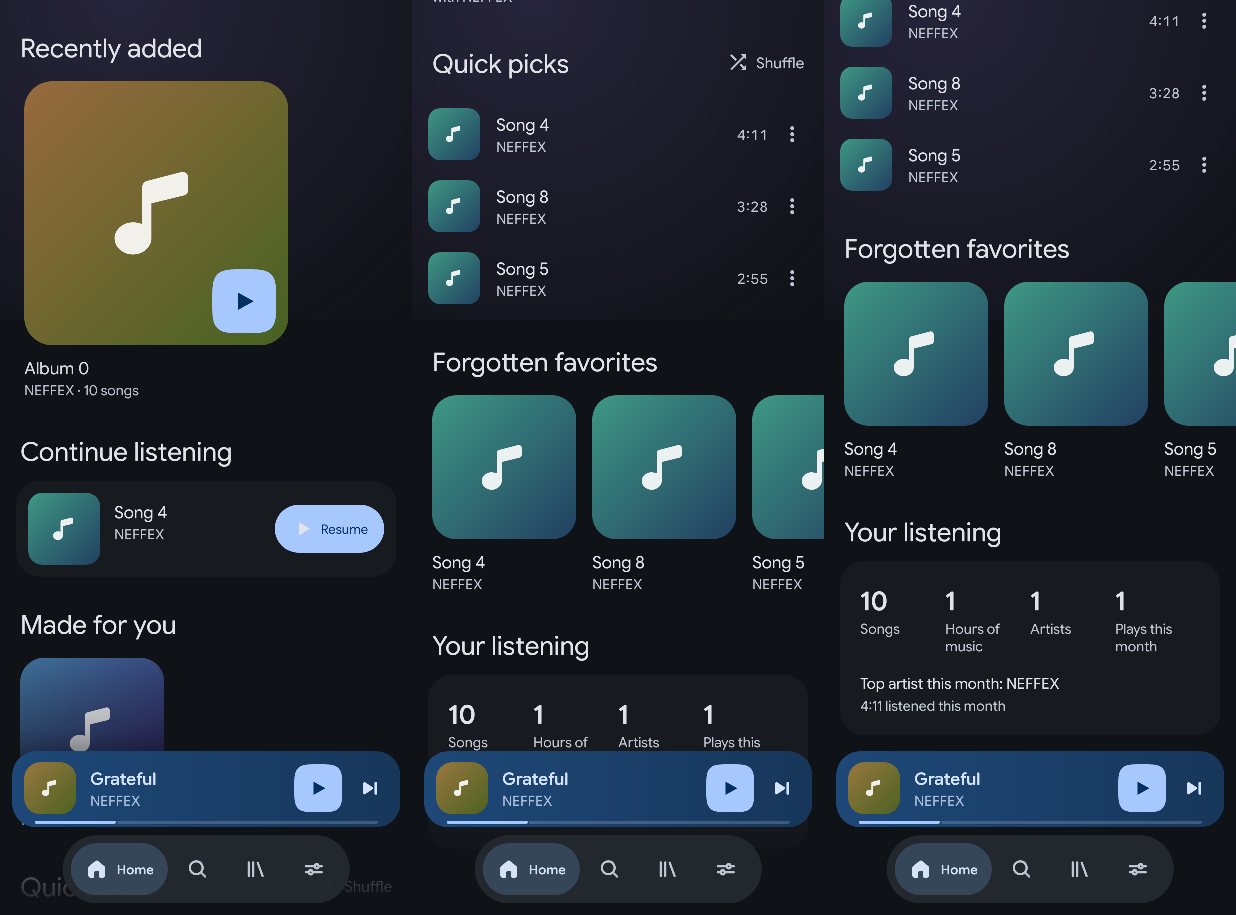
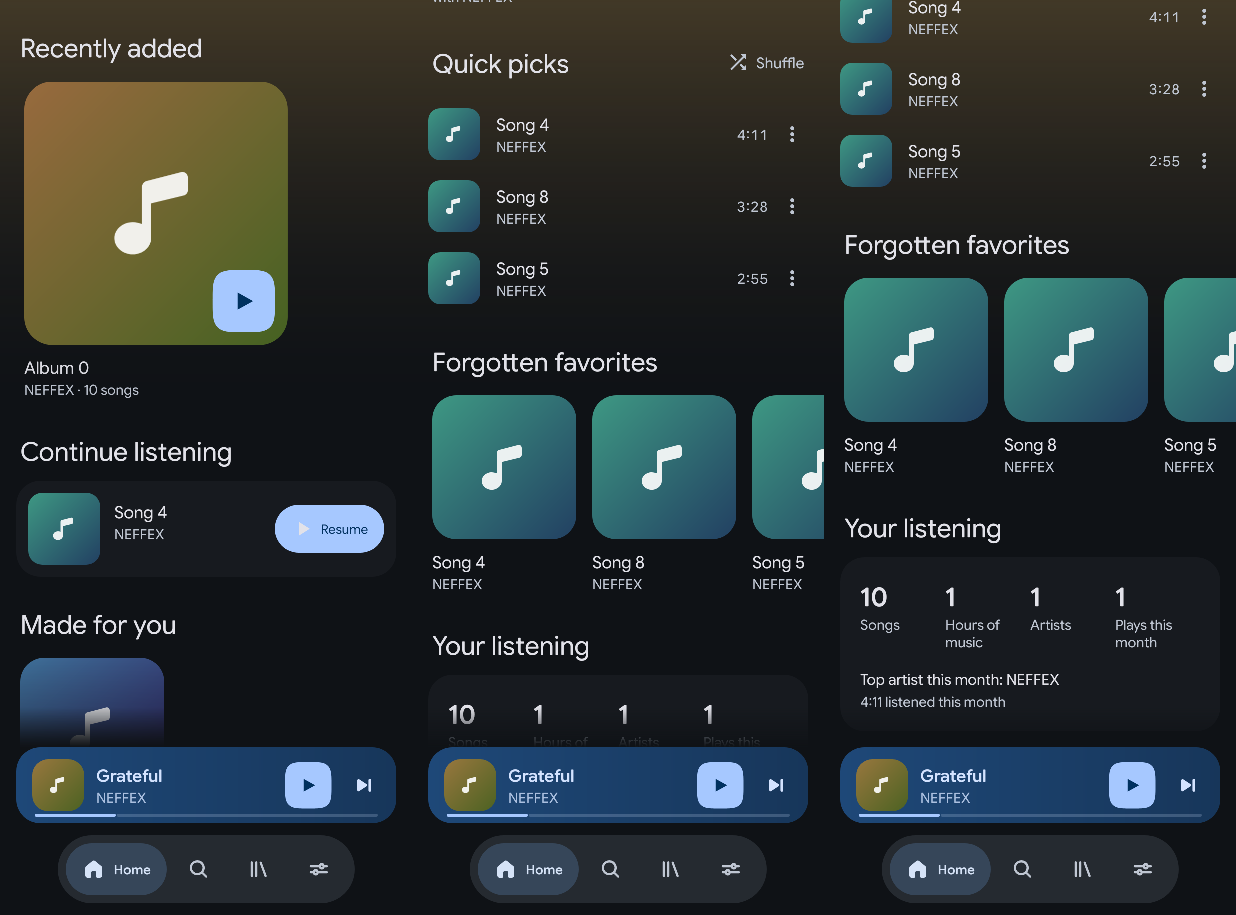
H1: Home glow follows the focused hero cover / playing track (HomeGlow.setTint: one cross-fade, instant under reduce-motion/saver, neutral when Colors from artwork is off; colours extracted on io + cached)
Claude-Session: https://claude.ai/code/session_01Vs9o5GYUVh6nkyc9RDeAP9

diff --git a/app/src/main/java/com/mhrsdev/musicplayer/ui/home/HomeBackdrop.java b/app/src/main/java/com/mhrsdev/musicplayer/ui/home/HomeBackdrop.java
@@ -1,0 +1,92 @@
+package com.mhrsdev.musicplayer.ui.home;
+
+import android.app.Activity;
+import android.graphics.Bitmap;
+import android.graphics.Color;
+import android.os.Handler;
+import android.os.Looper;
+import android.util.LruCache;
+import android.view.View;
+import androidx.annotation.MainThread;
+import androidx.annotation.Nullable;
+import com.mhrsdev.musicplayer.ui.nav.HomeGlow;
+import com.mhrsdev.musicplayer.ui.theme.MotionPolicy;
+import com.mhrsdev.musicplayer.ui.theme.ThemeController;
+import com.mhrsdev.musicplayer.ui.widget.ArtworkLoader;
+import com.mhrsdev.musicplayer.ui.widget.PlaceholderArt;
+import java.util.concurrent.Executor;
+
+/**
+ * Tints Home's top glow from a cover: the focused hero card after the carousel settles, else the playing track. Last
+ * event wins; repeats are deduped by key. A 64 px bitmap comes from the shared {@link ArtworkLoader} cache, the colour is
+ * extracted on the io executor and cached; the glow then makes one cross-fade (instant under reduce-motion / battery
+ * saver). "Colors from artwork" off = the neutral default glow. Nothing runs while scrolling.
+ */
+class HomeBackdrop {
+    private static final int ART_PX = 64;
+    private static final LruCache<String, Integer> COLORS = new LruCache<>(64);
+
+    private final Activity activity;
+    private final Executor io;
+    private final Handler main = new Handler(Looper.getMainLooper());
+    @Nullable private String currentKey;
+
+    HomeBackdrop(Activity activity, Executor io) {
+        this.activity = activity;
+        this.io = io;
+    }
+
+    /** @param artworkUri null = placeholder gradient: its seed colour is used directly */
+    @MainThread
+    void show(@Nullable String artworkUri, int placeholderSeed) {
+        View glow = HomeGlow.find(activity);
+        if (glow == null) return;
+        if (!ThemeController.get(activity).isArtworkColorsEnabled()) {
+            currentKey = null;
+            HomeGlow.setTint(glow, null, animate());
+            return;
+        }
+        String key = artworkUri != null ? artworkUri : "seed:" + placeholderSeed;
+        if (key.equals(currentKey)) return;
+        currentKey = key;
+        Integer cached = COLORS.get(key);
+        if (cached != null) {
+            apply(key, cached);
+        } else if (artworkUri == null) {
+            int c = glowColor(PlaceholderArt.seedColor(placeholderSeed));
+            COLORS.put(key, c);
+            apply(key, c);
+        } else {
+            ArtworkLoader.get(activity).load(artworkUri, ART_PX, (k, bmp) -> {
+                if (bmp == null) {
+                    show(null, placeholderSeed); // no cover: fall back to the placeholder hue
+                    return;
+                }
+                io.execute(() -> {
+                    int c = glowColor(ThemeController.seedOf(bmp)); // off the main thread
+                    COLORS.put(key, c);
+                    main.post(() -> apply(key, c));
+                });
+            });
+        }
+    }
+
+    private void apply(String key, int color) {
+        if (!key.equals(currentKey) || activity.isFinishing()) return; // a newer request won
+        View glow = HomeGlow.find(activity);
+        if (glow != null) HomeGlow.setTint(glow, color, animate());
+    }
+
+    private boolean animate() {
+        return MotionPolicy.decorativeMotionEnabled(activity) && !MotionPolicy.batterySaver(activity);
+    }
+
+    /** Keeps the cover's hue but a soft, glow-friendly saturation / value, so dull or neon covers both read well. */
+    static int glowColor(int seed) {
+        float[] hsv = new float[3];
+        Color.colorToHSV(seed, hsv);
+        hsv[1] = Math.max(0.35f, Math.min(0.7f, hsv[1]));
+        hsv[2] = 0.85f;
+        return Color.HSVToColor(hsv) & 0xFFFFFF;
+    }
+}

diff --git a/app/src/main/java/com/mhrsdev/musicplayer/ui/home/HomeFragment.java b/app/src/main/java/com/mhrsdev/musicplayer/ui/home/HomeFragment.java
@@ -27,6 +27,8 @@ import java.util.List;
 public final class HomeFragment extends Fragment implements HomeAdapter.Listener {
     private HomeFragmentBinding b;
     private HomeViewModel vm;
+    private HomeBackdrop backdrop;
+    @Nullable private String backdropTrackId;
     private boolean scanning;
     @Nullable private List<HomeSection> sections;
     private final ActivityResultLauncher<String> requestAudio = registerForActivityResult(
@@ -50,6 +52,7 @@ public final class HomeFragment extends Fragment implements HomeAdapter.Listener
         vm.getSections().observe(getViewLifecycleOwner(), s -> {
             sections = s;
             render(adapter);
+            if (backdropTrackId == null && backdrop != null) tintFromHeroStart();
         });
         // The first scan finishes after Home's first (empty) load: show "scanning", not "library is empty", meanwhile.
         c.libraryAdmin().isScanning().observe(getViewLifecycleOwner(), s -> {
@@ -57,10 +60,17 @@ public final class HomeFragment extends Fragment implements HomeAdapter.Listener
             render(adapter);
         });
         // Continue card progress: only the one row rebinds, quantized to 2 % steps (no per-tick layout).
+        backdrop = new HomeBackdrop(requireActivity(), c.ioExecutor);
         c.player.getState().observe(getViewLifecycleOwner(), st -> {
             if (st == null || st.currentTrack() == null) {
                 adapter.setNowPlaying(null, -1f);
+                if (backdropTrackId == null) tintFromHeroStart();
             } else {
+                Track now = st.currentTrack();
+                if (!now.id().equals(backdropTrackId)) { // track changed: the playing cover wins again
+                    backdropTrackId = now.id();
+                    backdrop.show(now.artworkUri(), now.placeholderSeed());
+                }
                 long dur = st.durationMs() > 0 ? st.durationMs() : st.currentTrack().durationMs();
                 adapter.setNowPlaying(st.currentTrack().id(), dur > 0 ? Math.min(1f, st.positionMs() / (float) dur) : 0f);
             }
@@ -147,6 +157,28 @@ public final class HomeFragment extends Fragment implements HomeAdapter.Listener
 
     @Override public void onShuffle(HomeSection section) {
         vm.shuffleSection(section, SectionText.title(requireContext(), section));
+    }
+
+    @Override public void onHeroFocused(HomeItem item) {
+        if (backdrop == null) return;
+        switch (item.kind()) {
+            case ALBUM -> backdrop.show(item.album().artworkUri(), item.album().placeholderSeed());
+            case TRACK -> backdrop.show(item.track().artworkUri(), item.track().placeholderSeed());
+            case PLAYLIST -> backdrop.show(item.playlist().artworkUris().isEmpty() ? null
+                    : item.playlist().artworkUris().get(0), item.playlist().placeholderSeed());
+            default -> { }
+        }
+    }
+
+    /** Nothing playing: the first hero card (when there is one) tints the glow. */
+    private void tintFromHeroStart() {
+        if (sections == null) return;
+        for (HomeSection s : sections) {
+            if (s.style() == com.mhrsdev.musicplayer.domain.model.HomeSectionStyle.HERO_CAROUSEL && !s.items().isEmpty()) {
+                onHeroFocused(s.items().get(0));
+                return;
+            }
+        }
     }
 
     @Override public void onContinue(Track track) {

diff --git a/app/src/main/java/com/mhrsdev/musicplayer/ui/nav/HomeGlow.java b/app/src/main/java/com/mhrsdev/musicplayer/ui/nav/HomeGlow.java
@@ -1,7 +1,14 @@
 package com.mhrsdev.musicplayer.ui.nav;
 
+import android.app.Activity;
 import android.content.Context;
+import android.graphics.drawable.Drawable;
 import android.graphics.drawable.GradientDrawable;
+import android.graphics.drawable.TransitionDrawable;
+import android.view.View;
+import androidx.annotation.ColorInt;
+import androidx.annotation.Nullable;
+import com.mhrsdev.musicplayer.R;
 
 /**
  * Home's ambient top glow: a vertical gradient that starts at full strength at y=0 (under the status bar) and eases
@@ -13,17 +20,52 @@ public final class HomeGlow {
 
     private HomeGlow() { }
 
+    /** Cross-fade length of {@link #setTint}; one fade per change, nothing animates otherwise. */
+    static final int FADE_MS = 450;
+    static final int DEFAULT_TINT = TINT;
+
     public static GradientDrawable create(Context context) {
         return new GradientDrawable(GradientDrawable.Orientation.TOP_BOTTOM, stops(9));
     }
 
+    /** The shell's glow view, or null when the activity has none (tests, other hosts). */
+    @Nullable public static View find(Activity activity) {
+        return activity.findViewById(R.id.home_glow);
+    }
+
+    /**
+     * Re-tints the glow (rgb, alpha ignored; {@code null} = the neutral default). {@code animate} = one cross-fade of
+     * {@link #FADE_MS}; otherwise instant. Static drawables only: the fade is a single TransitionDrawable run.
+     */
+    public static void setTint(View glow, @Nullable @ColorInt Integer rgb, boolean animate) {
+        int tint = rgb == null ? DEFAULT_TINT : rgb & 0xFFFFFF;
+        Object current = glow.getTag(R.id.home_glow);
+        if (current instanceof Integer c && c == tint) return;
+        glow.setTag(R.id.home_glow, tint);
+        GradientDrawable next = new GradientDrawable(GradientDrawable.Orientation.TOP_BOTTOM, stops(9, tint));
+        Drawable bg = glow.getBackground();
+        Drawable from = bg instanceof TransitionDrawable t ? t.getDrawable(1) : bg;
+        if (!animate || from == null || glow.getVisibility() != View.VISIBLE) {
+            glow.setBackground(next);
+            return;
+        }
+        TransitionDrawable fade = new TransitionDrawable(new Drawable[] {from, next});
+        fade.setCrossFadeEnabled(true);
+        glow.setBackground(fade);
+        fade.startTransition(FADE_MS);
+    }
+
     /** Ease-out alpha ramp from PEAK_ALPHA to 0 (last stop exactly 0). Pure for tests. */
     static int[] stops(int n) {
+        return stops(n, TINT);
+    }
+
+    static int[] stops(int n, int tint) {
         int[] c = new int[n];
         for (int i = 0; i < n; i++) {
             float t = i / (float) (n - 1);
             float a = (1f - t) * (1f - t) * (1f + 0.5f * t); // smooth, no visible step at the end
-            c[i] = (Math.round(PEAK_ALPHA * Math.min(1f, a)) << 24) | TINT;
+            c[i] = (Math.round(PEAK_ALPHA * Math.min(1f, a)) << 24) | tint;
         }
         return c;
     }

diff --git a/app/src/main/java/com/mhrsdev/musicplayer/ui/home/HomeAdapter.java b/app/src/main/java/com/mhrsdev/musicplayer/ui/home/HomeAdapter.java
@@ -49,6 +49,9 @@ class HomeAdapter extends ListAdapter<HomeAdapter.Row, RecyclerView.ViewHolder> 
         void onShuffleLibrary();
 
         void onSurprise();
+
+        /** The hero carousel settled on {@code item} after a user swipe (never fires per scroll frame). */
+        void onHeroFocused(HomeItem item);
     }
 
     /** One row of the Home list. */
@@ -167,6 +170,13 @@ class HomeAdapter extends ListAdapter<HomeAdapter.Row, RecyclerView.ViewHolder> 
                 };
                 if (type == Row.HERO) {
                     HeroCarousel.attach(b.carousel);
+                    b.carousel.addOnScrollListener(new RecyclerView.OnScrollListener() {
+                        @Override public void onScrollStateChanged(@NonNull RecyclerView rv, int state) {
+                            if (state != RecyclerView.SCROLL_STATE_IDLE) return;
+                            HomeItem focused = focusedHero(rv);
+                            if (focused != null) listener.onHeroFocused(focused);
+                        }
+                    });
                 } else {
                     LinearLayoutManager lm = new LinearLayoutManager(parent.getContext(), RecyclerView.HORIZONTAL, false);
                     lm.setInitialPrefetchItemCount(4);
@@ -219,6 +229,19 @@ class HomeAdapter extends ListAdapter<HomeAdapter.Row, RecyclerView.ViewHolder> 
             ((HomeCardAdapter) car.carousel.getAdapter()).submitList(
                     items.size() > cap ? new ArrayList<>(items.subList(0, cap)) : items);
         }
+    }
+
+    /** The hero card HeroCarousel scaled to full size (the focused keyline). */
+    @Nullable static HomeItem focusedHero(RecyclerView rv) {
+        View best = null;
+        for (int i = 0; i < rv.getChildCount(); i++) {
+            View v = rv.getChildAt(i);
+            if (best == null || v.getScaleX() > best.getScaleX()) best = v;
+        }
+        if (best == null) return null;
+        int pos = rv.getChildAdapterPosition(best);
+        HomeCardAdapter a = (HomeCardAdapter) rv.getAdapter();
+        return a == null || pos == RecyclerView.NO_POSITION || pos >= a.getItemCount() ? null : a.getCurrentList().get(pos);
     }
 
     private void bindContinue(HomeContinueBinding k, HomeSection s) {

diff --git a/app/src/test/java/com/mhrsdev/musicplayer/ui/home/HomeBackdropTest.java b/app/src/test/java/com/mhrsdev/musicplayer/ui/home/HomeBackdropTest.java
@@ -1,0 +1,44 @@
+package com.mhrsdev.musicplayer.ui.home;
+
+import static org.junit.Assert.assertEquals;
+import static org.junit.Assert.assertSame;
+import static org.junit.Assert.assertTrue;
+
+import android.graphics.Color;
+import android.graphics.drawable.Drawable;
+import android.graphics.drawable.TransitionDrawable;
+import android.view.View;
+import com.mhrsdev.musicplayer.ui.nav.HomeGlow;
+import org.junit.Test;
+import org.junit.runner.RunWith;
+import org.robolectric.RobolectricTestRunner;
+import org.robolectric.RuntimeEnvironment;
+import org.robolectric.annotation.Config;
+
+@RunWith(RobolectricTestRunner.class)
+@Config(sdk = 35)
+public class HomeBackdropTest {
+
+    @Test public void glowColorKeepsHueAndSoftensExtremes() {
+        float[] hsv = new float[3];
+        Color.colorToHSV(HomeBackdrop.glowColor(Color.rgb(255, 0, 0)) | 0xFF000000, hsv);
+        assertEquals(0f, hsv[0], 1f);
+        assertTrue(hsv[1] <= 0.71f);
+        Color.colorToHSV(HomeBackdrop.glowColor(Color.rgb(40, 44, 40)) | 0xFF000000, hsv);
+        assertTrue("grey covers still glow a little", hsv[1] >= 0.34f);
+        assertEquals(0.85f, hsv[2], 0.01f);
+    }
+
+    @Test public void setTintCrossFadesOnceAndDedupes() {
+        View glow = new View(RuntimeEnvironment.getApplication());
+        glow.setId(com.mhrsdev.musicplayer.R.id.home_glow);
+        glow.setBackground(HomeGlow.create(glow.getContext()));
+        HomeGlow.setTint(glow, 0x3366CC, true);
+        assertTrue(glow.getBackground() instanceof TransitionDrawable);
+        Drawable bg = glow.getBackground();
+        HomeGlow.setTint(glow, 0x3366CC, true); // same colour: no new fade
+        assertSame(bg, glow.getBackground());
+        HomeGlow.setTint(glow, 0x22AA55, false); // reduce motion: instant
+        assertTrue(!(glow.getBackground() instanceof TransitionDrawable));
+    }
+}

diff --git a/app/src/main/java/com/mhrsdev/musicplayer/ui/theme/ThemeController.java b/app/src/main/java/com/mhrsdev/musicplayer/ui/theme/ThemeController.java
@@ -73,6 +73,11 @@ public final class ThemeController {
         if (!enabled) animateTo(AccentScheme.base(Tokens.isDark(app)));
     }
 
+    /** Settings "Colors from artwork" as last applied (Home glow follows it too). */
+    public boolean isArtworkColorsEnabled() {
+        return artworkColors;
+    }
+
     /** Extracts the seed from {@code artwork} (any size; downscaled to 32x32). {@code key} dedupes repeats. */
     @MainThread
     public void setFromArtwork(@Nullable Bitmap artwork, @Nullable String key) {
